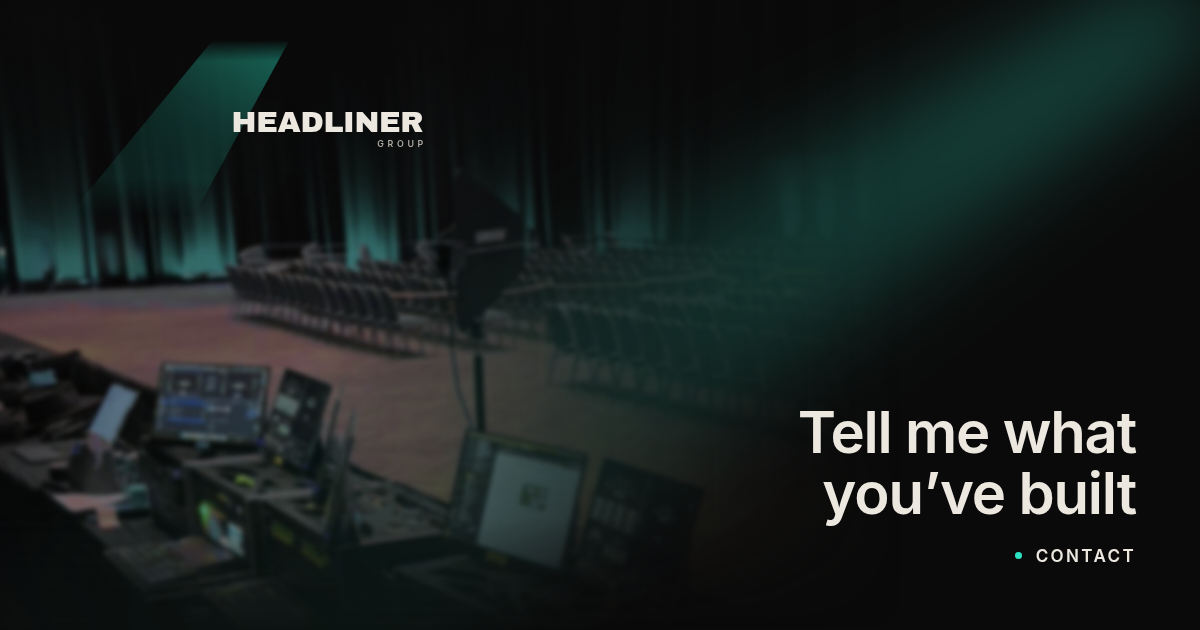
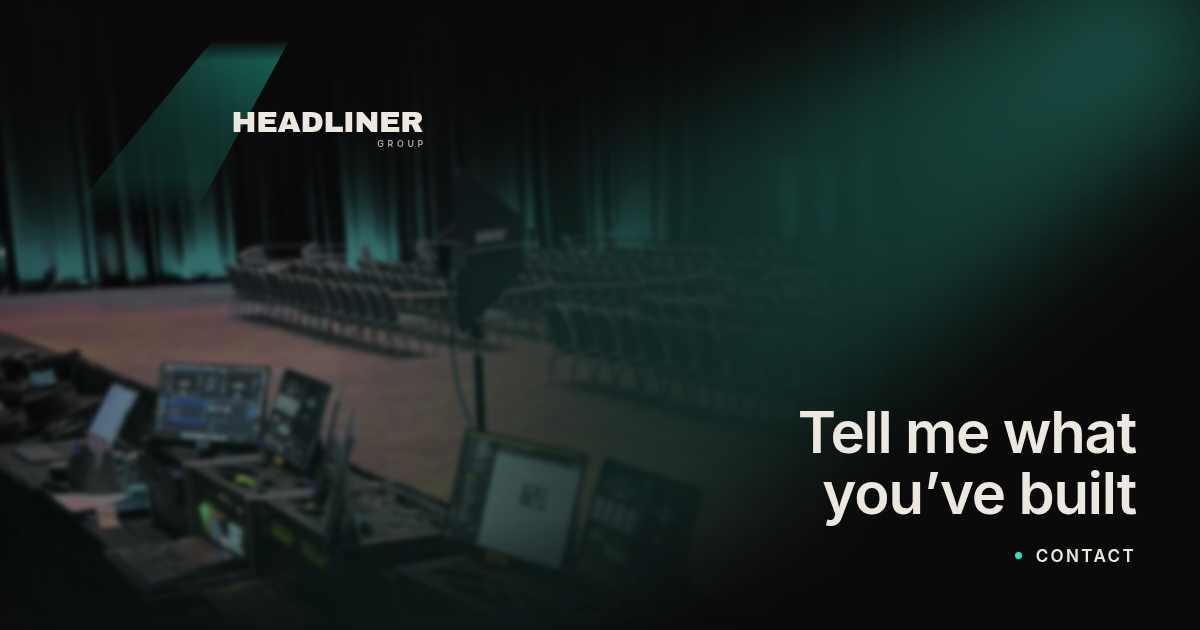
Thicken both ends of the card beam
Card only. The site's beam is a separate rule and is untouched.

At 1200 by 630 the site's taper reads as a thread rather than a throw.
The tail goes 420 to 620 and the source widens from 14 percent of the box
to 26, which is 162px instead of 59, with the right offset following half
the width so the lamp stays on the corner. Blur lifts to 52 to match the
wider body.

Contrast unchanged where it matters. Headline 7.70:1, record 16.03,
lockup 9.02.

Claude-Session: https://claude.ai/code/session_01DjfMPENav1QLkD66DkX8kr

diff --git a/tools-og/card.html b/tools-og/card.html
@@ -51,12 +51,16 @@
   /* the lamp is the element's top centre, so putting that on the corner is what makes
      the throw start there. 58 degrees off vertical rakes it across the card instead of
      dropping it down the middle, which is the wrong read on a landscape crop. */
-  .g__beam{position:absolute;top:0;right:-210px;width:420px;height:1500px;z-index:1;
-        transform:rotate(58deg);transform-origin:top center;filter:blur(46px);
+  /* Card only. The site's own beam is untouched. Both ends run thicker here, because
+     at 1200 by 630 the site's taper reads as a thread rather than a throw. Tail 620
+     instead of 420, and the source widens from 14 percent of the box to 26, which is
+     162px instead of 59. Right offset is half the width, so the lamp stays on the corner. */
+  .g__beam{position:absolute;top:0;right:-310px;width:620px;height:1500px;z-index:1;
+        transform:rotate(58deg);transform-origin:top center;filter:blur(52px);
         mix-blend-mode:screen;pointer-events:none}
   .g__beam::before{content:"";position:absolute;inset:0;
-        clip-path:polygon(43% 0,57% 0,100% 100%,0 100%);
-        background:linear-gradient(to bottom,rgba(45,226,195,.34),rgba(45,226,195,.07) 55%,rgba(45,226,195,0))}
+        clip-path:polygon(37% 0,63% 0,100% 100%,0 100%);
+        background:linear-gradient(to bottom,rgba(45,226,195,.32),rgba(45,226,195,.07) 55%,rgba(45,226,195,0))}
   /* the stage is 18em by 5.9em at 44px, so scale .68 leaves it 539 by 177. Pulled
      left so the beam bleeds off the edge the way it does in the bar. */
   .g .mark{right:auto;left:-24px;top:40px;width:539px;height:177px}

diff --git a/README.md b/README.md
@@ -238,7 +238,9 @@ Every page carries a canonical, the Open Graph set and `twitter:card`, with the 
 
 The five cards in `assets/img/og-*.png` are 1200 by 630 and they are **generated, not drawn**. `tools-og/card.html` links the real stylesheet and uses the real `.hl-stage` markup, so the lockup on the card is the header lockup rather than a redrawing of it, beam and taper included. Re-run `tools-og/gen.js` whenever a page headline changes.
 
-All five share one anatomy. A photograph holds the left and dissolves into the ground on two axes, with the headline and record bottom right. Only the brand changes. The group's four put the header lockup top left with the beam bleeding off the edge exactly as it does in the bar, run the venue shot to 80 percent of the card, and rake the aqua beam across from the top right corner. His keeps the signature top right.
+All five share one anatomy. A photograph holds the left and dissolves into the ground on two axes, with the headline and record bottom right. Only the brand changes. The group's four put the header lockup top left with the beam bleeding off the edge exactly as it does in the bar, run the venue shot to 80 percent of the card, and rake the aqua beam across from the top right corner.
+
+The card beam is its own rule and the site's is untouched. At 1200 by 630 the site's taper reads as a thread, so the card runs a 620px tail instead of 420 and widens the source from 14 percent of the box to 26, which is 162px rather than 59. His keeps the signature top right.
 
 The venue shot is far lighter and wider than his portrait, so it carries its own numbers: an earlier dissolve, a heavier right hand scrim, and a pool of shade in the bottom right corner where the copy sits over a lit floor and a front of house monitor. Without that pool the headline measures 4.71:1, with the bright pixel landing under the first word.
 

diff --git a/CONTENT-DECISIONS.md b/CONTENT-DECISIONS.md
@@ -353,7 +353,7 @@ taper and GROUP alignment included. Ryan's call.
 two axes, with the headline and the record bottom right. What changes between them is the
 brand, which is the point. The group's cards use the venue shot already on the home page,
 the header lockup **top left with the beam bleeding off the edge exactly as it does in the
-bar**, and the aqua beam raking across from the top right corner. His uses his portrait, his signature top
+bar**, and the aqua beam raking across from the top right corner, thicker at both ends than the site's. His uses his portrait, his signature top
 right, the Caveat kicker and a pink bloom.
 
 The venue shot runs to 80 percent of the card, so the copy block sits over a lit floor and a
